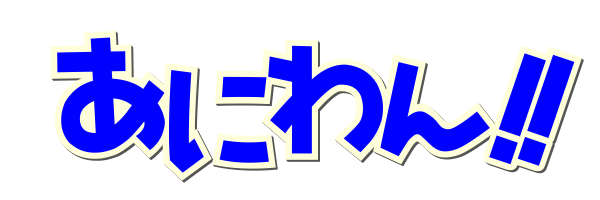
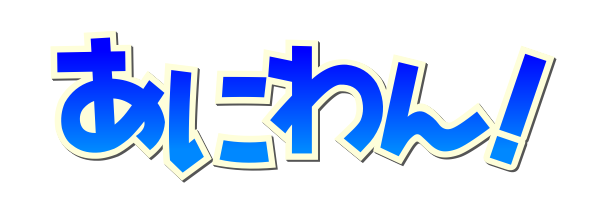
README更新、ロゴ差し替え

Changed region(s): [[0.36, 0.24, 0.99, 0.87], [0.09, 0.33, 0.45, 0.87]]

diff --git a/round/W01_7Final/board.html b/round/W01_7Final/board.html
@@ -21,14 +21,40 @@
 
 	<body ng-controller="main" ng-keydown="keyDown($event)">
 		<div scoreboard>
+			<img class="logo7" src="../../img/7_2019_logo2.png">
 			<div class="title">
-				７（なな）2019 決勝
+				決勝
 			</div>
 			<div class="qCount">
     			{{current.header.qCount}}問目&nbsp;
 <span class="genre" ng-attr-value="{{current.header.nowGenre}}">{{property.genre[current.header.nowGenre-1]}}</span>
 
 <style type="text/css">
+		body div.scoreboard img.logo {
+			width: 0px;
+		}
+
+		body div.scoreboard hr.hr0 {
+			margin-left: 380px;
+		}
+
+		body div.scoreboard div.title {
+		  left: 200px;
+			margin-left: 200px;
+		}
+
+		body div.scoreboard img.logo7{
+			height: 100px;
+			background: linear-gradient(black, white,white,white, black);
+			margin-top: 10px;
+			margin-left: 50px;
+		}
+
+		body div.scoreboard div.qCount {
+			left: 200px;
+			margin-left: 200px;
+		}
+
     span.genre{
         -webkit-text-stroke: 2px white;
     }

diff --git a/index.html b/index.html
@@ -46,8 +46,6 @@
     <span class="glyphicon glyphicon glyphicon-user"></span> Name List</a>
   <a href="#" ng-click="initialize()" class="btn btn-danger">
     <span class="glyphicon glyphicon glyphicon-remove"></span> Initialize</a>
-  <a href="slot.html" target="_blank" class="btn">
-    Slot</a>
   <hr>
 
   <table class="table table-condensed">

diff --git a/README.md b/README.md
@@ -1,153 +1,52 @@
-# myxQuizKachinuke
-
-## 概要
-クイズ大会「第18回勝抜杯」の得点表示プログラムです。
-
-- [インストール・起動方法](#インストール・起動方法)
-    - [パッケージを利用する場合](#パッケージを利用する場合)
-    - [リポジトリを利用する場合](#リポジトリを利用する場合)
-- [遷移図](#遷移図)
-    - [ウィンドウ](#ウィンドウ)
-    - [ディレクトリ](#ディレクトリ)
-- [使い方](#使い方)
-    - [メニューウィンドウ](#メニューウィンドウ)
-    - [操作ウィンドウ](#操作ウィンドウ)
-        - [全ラウンド共通](#全ラウンド共通)
-        - [予選](#予選)
-        - [準決勝・決勝](#準決勝・決勝)
-    - [Twitterウィンドウ](#Twitterウィンドウ)
-- [カスタマイズ方法](#カスタマイズ方法)
-    - [ウィンドウの表示位置・サイズの変更](#ウィンドウの表示位置・サイズの変更)
-    - [連携先Twitterアカウントの変更](#連携先Twitterアカウントの変更)
-    - [Excelファイル読み込み時の対象ワークシートの変更](#Excelファイル読み込み時の対象ワークシートの変更)
-- [ライセンス](#ライセンス)
-- [作成者](#作成者)
-
-## インストール・起動方法
-### パッケージを利用する場合
-1. 右記のファイルをダウンロードする。
-    [myxQuizMasterQEE-win32-x64.zip](https://drive.google.com/open?id=1dRZiTlTabWw8LCO1pWFaBxXTbCzBlmKQ)
-1. ダウンロードしたファイルを適当な場所に展開する。
-1. 'myxQuiz.exe'を実行する。
-
-### リポジトリを利用する場合
-1. Node.jsのインストール、及び Electron ver.1.7.10 の開発環境を導入する。
-1. 右記のディレクトリをcloneする。[miyax0227/myxQuizMasterQEE](https://github.com/miyax0227/myxQuizMasterQEE)
-1. 必要なnodeモジュールをインストールする。  
-    ```Shell
-    npm install
-    ```
-1. electronコマンドによりmain.jsを読み込む。
-    ```Shell
-    electron .
-    ```
-
-## 遷移図
-![Flow](http://drive.google.com/uc?export=view&id=0B00MyT_-RKCUR0xqOUpSeXotaWc)
-### ウィンドウ
-1. メニューウィンドウ  
-    起動時に開くウィンドウ。他のウィンドウを開いたり、ファイル操作をしたりする。
-1. 操作ウィンドウ  
-    得点操作を行うウィンドウ。ラウンド毎に異なるウィンドウが開く。
-1. 表示ウィンドウ  
-    プロジェクタに得点表示するためのウィンドウ。操作ウィンドウから操作ボタンを取り除いたデザインとなっている。
-1. Twitterウィンドウ  
-    Twitterにツイートや画像を連携するウィンドウ。このウィンドウが開いている時に限りTwitter連携を行う。
-### ディレクトリ
-1. `/history/current`  
-    名前リストファイル、ラウンド毎のエントリーファイル、履歴ファイルを格納する。
-1. `/twitter`  
-    Twitterに連携するツイートを記載したファイル(`*.txt`)や画面キャプチャ(`*.png`)を格納する。連携し終えたファイルは`/twitter/backup`に移送される。
-
+# myxQuizAnione3
 ## 使い方
-### メニューウィンドウ
-![Menu Window Usage](http://drive.google.com/uc?export=view&id=0B00MyT_-RKCUYlEzTzJORHZURE0)
-1.  **招集(全体)**   
-     **最初に実施する。** Excel形式のエントリーリストを読み込む。ファイルを選択するとウィンドウ下部にプレビューが表示され、OKボタン押下により読み込みが完了する。  
-     [エントリーリストのサンプル](https://drive.google.com/open?id=1yoIlNd7rqGSXvheHPeLm-G7ZY0J6ZcKt)
-1.  **招集(個別)**  
-    **各ラウンドの実行前に実施する。** エントリーリストまたは前ラウンドの結果から各ラウンドに参加する人を読み込む。画面下部にプレビューが表示される。OKボタン押下により読み込みが完了する。
-1. **ラウンド開始**  
-    **各ラウンドを開始する。** 各ラウンドの操作ウィンドウが開く。以前に開いて中断したラウンドの場合は、中断した時点の履歴から再開する。
-1. 初期化(全体)  
-    読み込み状態を初期化する。1. 招集(全体)を行う前の状態に戻る。
-1. 初期化(個別)  
-    各ラウンドの状態を初期化する。3. ラウンド開始を行う前の状態に戻る。
-1. Twitter  
-    Twitterウィンドウを開く。
-1. フォルダ  
-    プログラムがインストールされたフォルダを開く。
-1. エディタ  
-    ルール等を編集するためのエディタを開く。
-        
-### 操作ウィンドウ
-#### 全ラウンド共通
-![Operation Window Usage](http://drive.google.com/uc?export=view&id=0B00MyT_-RKCUWndHU3FJazNkRlk)
-1. **Basic**  
-    1. **view**  
-    **表示用ウィンドウを開く。** 表示用ウィンドウはスクリーンに映写するためのウィンドウで、操作用ウィンドウの操作結果と同期している。
-    1. edit  
-    エディット用のモーダル画面を開く。プレイヤー名や成績を変更できる。
-    1. ss  
-    スクリーンショットを取得する。Twitter画面を開いている場合、指定したTwitterアカウントに取得したスクリーンショットを投稿できる。
-1. Rule  
-    各ラウンドの形式固有の操作を行う。スルー、組分け変更など。形式によってボタンの種類が異なる。
-1. View
-    1. award  
-    優勝決定時に表示されるカットイン表示のON/OFF切替を行う。決勝ラウンドでのみ使用する。
-    1. open  
-    氏名が隠されたプレイヤーについて、上位から開示（いわゆる「ターンオーバー」）を行う。ペーパーテストの結果発表等で使用する。
-1. History
-    1. undo  
-    直前の操作を取り消す。
-    1. redo  
-    直前のundoを取り消す。
-1. Playoff  
-    1. regular  
-    プレーオフ状態から通常状態に戻す。
-    1. playoff  
-    プレーオフを開始する。プレーオフでは、各プレイヤーの勝抜・失格・待機をワンボタンで変更できる。
-    1. upper  
-    勝抜または失格していないプレイヤーのうち、成績最上位のプレイヤーを勝抜にする。複数のプレイヤーがいる場合は当該プレイヤー以外を待機状態にしてプレーオフを開始する。
-    1. lower  
-    勝抜または失格していないプレイヤーのうち、成績最下位のプレイヤーを失格にする。複数のプレイヤーがいる場合は当該プレイヤー以外を待機状態にしてプレーオフを開始する。        
-1. Timer
-    1. ＋  
-    タイマーを1秒増やします。
-    1. －  
-    タイマーを1秒減らします。
-    1. start/reset  
-    タイマーを開始する。または開始時の時間に戻す。
-    1. stop/restart  
-    タイマーを一時停止する。または一時停止状態から最下位する。
-    1. show/hide  
-    タイマーの表示/非表示を切り替える。
-    1. exp  
-    ラウンドの説明文を一文ずつ表示する。
 
-#### 形式毎  [Demo]  
-準備中
+### 使い始めるまで
+1. ダウンロードする。  
+https://drive.google.com/open?id=1bHbz_ee1J7n146xM_eQverJrWSyjqnVm
+2. 適当な場所に展開する。
+3. "myxQuiz.exe" を開く。  
+   "myxQuizIndex"というウィンドウが開けばOK。
+4. **[NameList]** ボタンを押下する。ファイル選択ダイアログが表示されるので、ペーパーの採点結果・７の決勝進出チームが記入されたExcelファイルを選択する。ウィンドウの下側に出場者の一覧が出るので、確認して **[OK]** を押す。
+   
+### ペーパーテスト用タイマーの使い方
+1. **[Timer/Question]** ボタンを押す。
+2. 開いたウィンドウ内の **[view]** ボタンを押す。
+3. 右上の **[show/hide]** ボタンを押すと、残り時間が表示される。(もう一度押すと消える)
+4. ペーパーテスト開始時に右上の **[start/stop]** ボタンを押す。
+5. ペーパーテスト終了後はタスクバーからウィンドウを閉じる。
+   
+### 各ラウンドの使い方
+#### 開始方法
+1. 各ラウンドの出場者が確定したら（2R・敗者復活・7決勝は最初から確定扱い） **[Call]** リンクを押す。
+2. ウィンドウの下側に出場者の一覧が出るので、確認して問題なければ **[OK]** を押す。修正が必要な場合は一覧内のテキストボックス内で編集する(敗者復活は編集必須)。
+3. ラウンド開始時に **[(ラウンド名)]** リンクを押す。
+4. 開いたウィンドウ内で **[view]** ボタンを押すと、表示用ウィンドウが表示される。
+5. 各ラウンド内の操作は割愛。
+   
+#### 操作方法(共通部分のみ)
+- **[P+][P-][↑][↓]** でプレイヤーの表示位置を調整する。
+- **[open]** または **Ctrl+→** で隠れているプレイヤー名を順次表示(ターンオーバー)する。
+- **[undo]** または **←** で操作のやり直し、 **[redo]** または **→** で操作のやり直しの取り消しができる。
+- **[ss]** またはEscキーで画面のキャプチャーを取り、Twitterに連携できる。
+##### プレーオフ
+- **[upper]** または **Ctrl+↑** で勝者決定のプレーオフを開始する(ボーダーライン上に1人だけいる場合は自動で勝抜となり、プレーオフにはならない)。
+- **[lower]** またはCtrl+↓キーで敗者決定のプレーオフを開始する(ボーダーライン上に1人だけいる場合は自動で敗退となり、プレーオフにはならない)。
+- プレーオフ状態のときは、各プレイヤーに **[勝][負][待]** ボタンが表示される。それぞれ押すと勝抜、敗退、待機状態にできる。
+- プレーオフ状態のときに **[regular]** を押すと、プレーオフが終了する。
 
-### Twitterウィンドウ
-![Twitter Window Usage](http://drive.google.com/uc?export=view&id=0B00MyT_-RKCUM3lmNzM1UXZ2OVU)
-1. ツイート履歴
-    得点表示プログラムからTwitterアカウントに連携されたツイートの履歴を表示する。新しいツイートほど上に表示する。Deleteボタン押下によりツイートを削除します。行を選択すると、そのツイートに対するリプライができる。
+### Twitter連携ウィンドウの使い方
+1. **[Twitter]** ボタンを押下して、Twitterウィンドウを開く。
+2. 左上の表から使うアカウントを選ぶ。「myxpoint」はテスト用なのでこれは使わず、その下から順番に使うこと。
+3. 左上の **[Pause:0]** ボタンを押下すると連携が開始される。もう１度押すと連携が停止される。
+#### Tips
+- 連携停止中もツイートのキューは溜まり、連携を再開すると1秒間隔で溜まっているツイートの連携を行う。溜まっているツイートのキューを削除する場合は **[Trash]** ボタンを押す。
+- 告知等、手動でツイートしたい場合は右上のテキストエリアから行える。
+- Twitterのツイート数制限は300ツイート/3時間程度である(2019年5月現在)。Twitterアカウントを適宜確認し、300ツイートに達しそうになった場合はアカウントを切り替えること。
 
-1. 手動ツイート
-    Twitterアカウントに任意のツイートを連携できる。
-    
-1. アカウント選択
-    連携先のTwitterアカントを選択できる。
 
-## カスタマイズ方法
-準備中
-![サンプル1](http://drive.google.com/uc?export=view&id=1IxbcaUeavc0Vm7S7E9cpogA2loip8OOC)
-![サンプル2](http://drive.google.com/uc?export=view&id=18SusMiQ9ARPgwzRUh6t3OaxotF1zUXyl)
-![サンプル3](http://drive.google.com/uc?export=view&id=1wQVRxU2_pP9sGd5MkQx6ClAprIOlTs0t)
-![サンプル4](http://drive.google.com/uc?export=view&id=1wuwffOtdgkgGTPlz9pFBZ6Dp2N_lnwl_)
-
-### ライセンス
-Copyright (C) 2017 R. MIYAMOTO  
+## ライセンス
+Copyright (C) 2017-2019 R. MIYAMOTO  
 Licensed under MIT  
   
 Includes MigMix Font  
